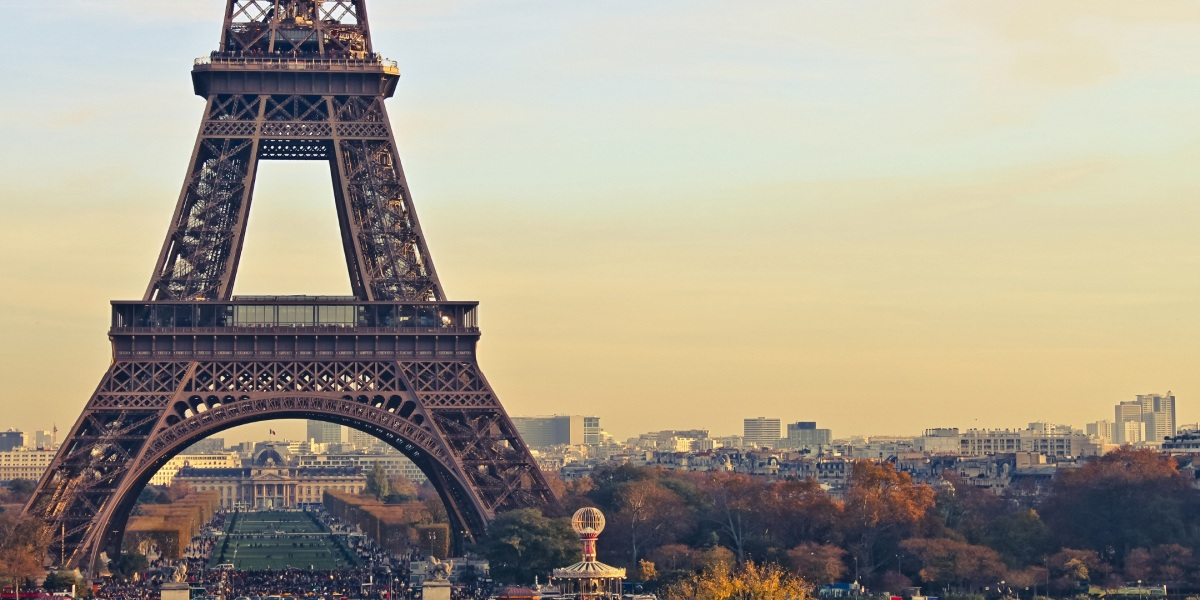
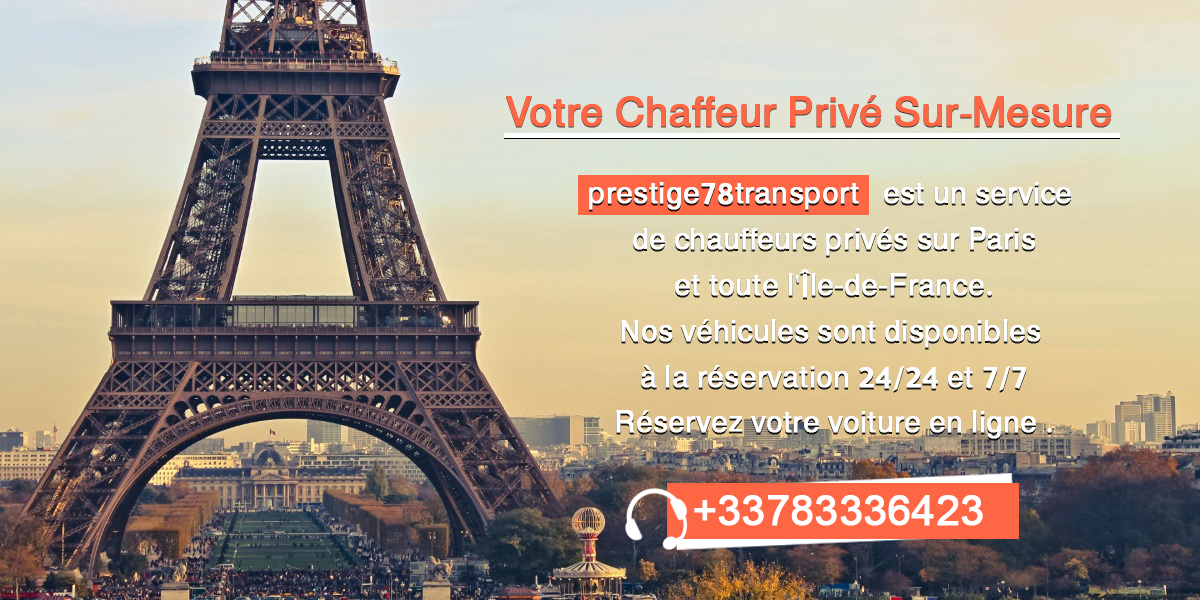
Sliders Are up now

diff --git a/index.html b/index.html
@@ -2,7 +2,7 @@
 <!DOCTYPE html>
 <html><head>
     <meta charset="utf-8" />
-    <title>Prestige78Transport :: Votre Chauffeur Privé !</title>
+    <title>Prestige78Transport :: Votre Chauffeur Privé à paris !</title>
     <!-- Main Style Sheet -->
     <link href="css/style.css" rel="stylesheet" type="text/css">
    
@@ -49,7 +49,6 @@
             	<li><img src="images/slider_img1.jpg" /></li>
                 <li><img src="images/slider_img2.jpg" /></li>
                 <li><img src="images/slider_img3.jpg" /></li>
-                <li><img src="images/slider_img4.jpg" /></li>
                 <li><img src="images/slider_img5.jpg" /></li>
           	</ul>
         </div>
@@ -57,9 +56,8 @@
         	<div class="row">
             	<div class="span12">
                 	<div class="intro-wrap">
-                        Votre <span>chauffeur privé</span> sur-mesure.
+                        Voiture <span>& </span> chauffeur <span>Paris.</span>
                     </div>
-                    <p class="intro-txt">prestige78transport est un service de chauffeurs privés sur Paris et toute l'Île-de-France. Nos véhicules sont disponibles à la réservation 24/24 et 7/7.<br>Réservez votre voiture en ligne !</p>
                 </div>
             </div>
         </div>
